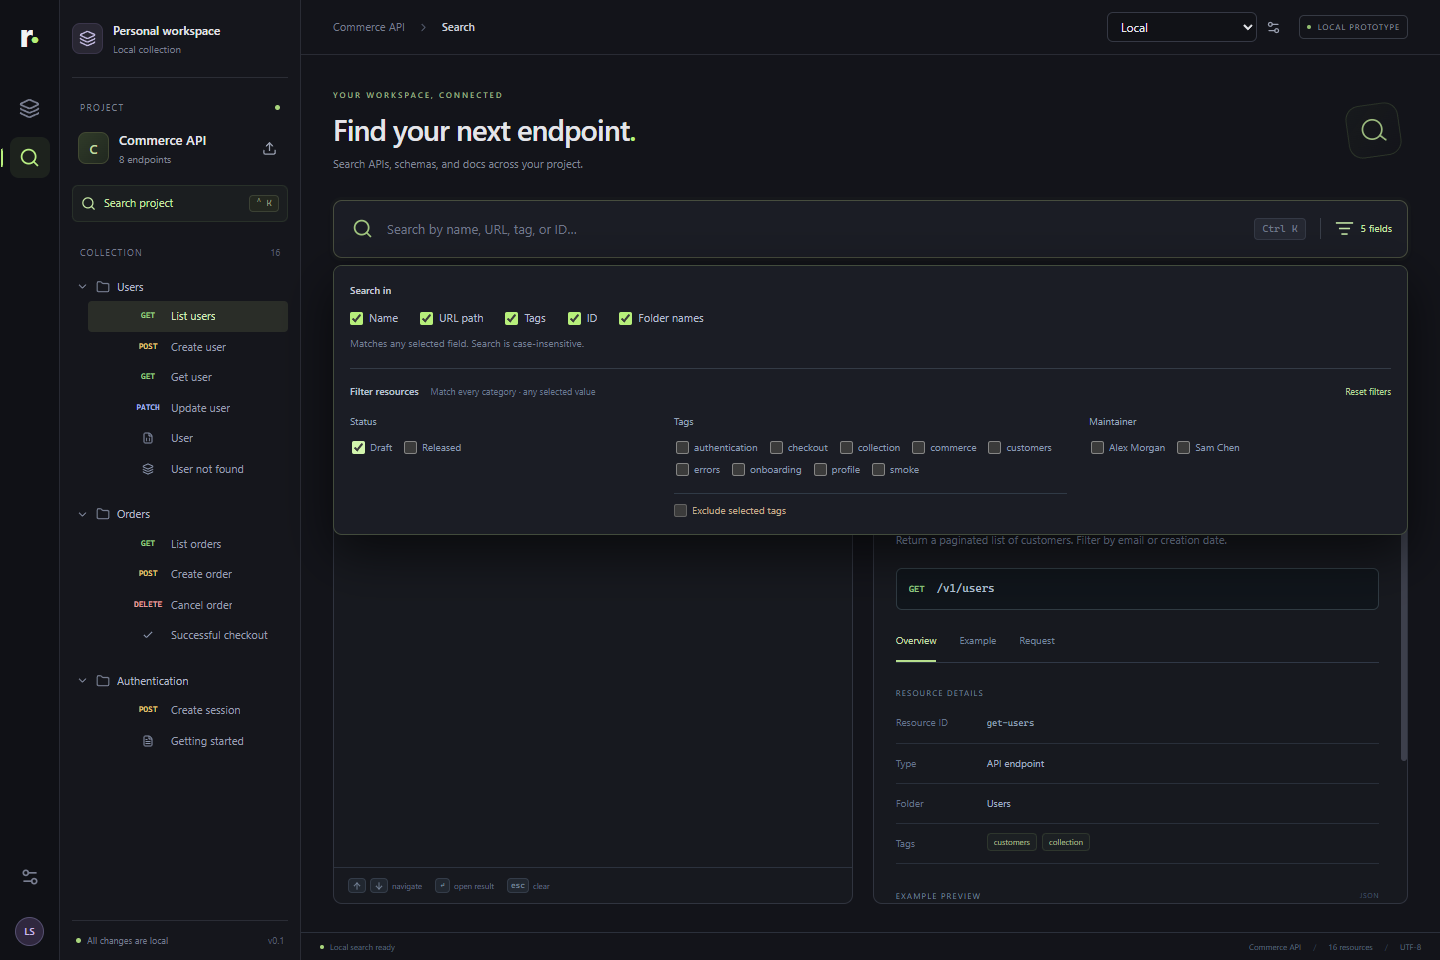
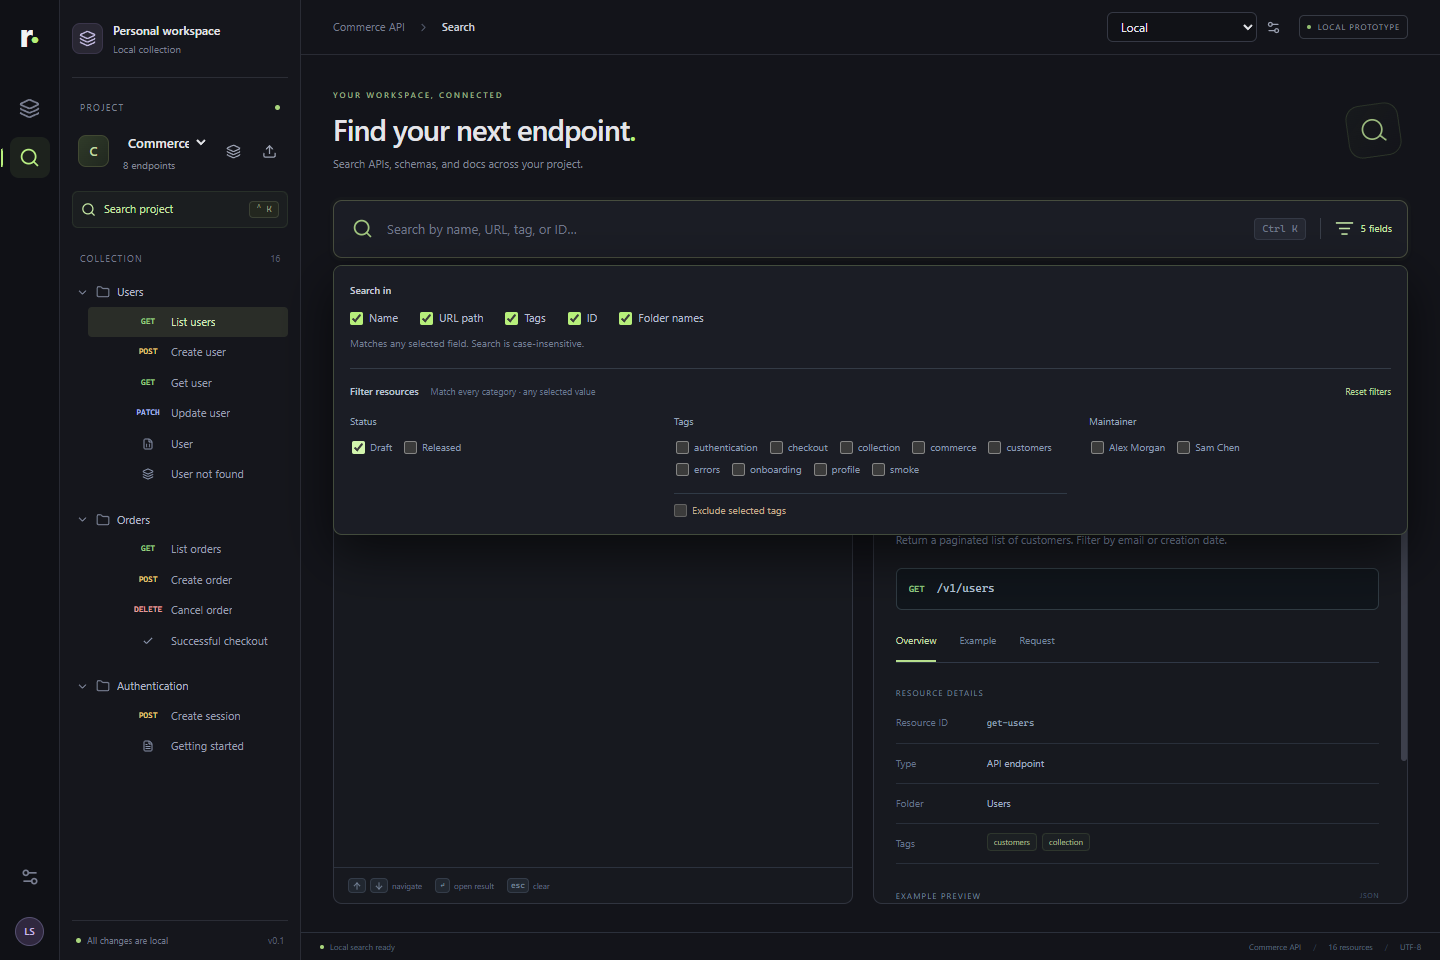
test: add projects smoke scenario with real v1 migration; document stages

diff --git a/docs/projects/README.md b/docs/projects/README.md
@@ -1,0 +1,50 @@
+# Multiple projects (unlimited)
+
+Reqora exists partly because Apidog limits imports to 5 projects. Reqora has **no limit** on the number of projects, and the code contains no project cap anywhere.
+
+## Specs
+
+**Model.** `Workspace { version: 2, revision, activeProjectId, projects: Project[] }`.
+- Each project owns its folders, endpoints, resources, import sources, environments, active environment and global variables. Scripts and auth (features 3 and 4) will also live on `Project`.
+- Search history is kept per project, under the browser-storage key `reqora.search.history.v1:<projectId>`. Search field and type preferences stay global.
+
+**Isolation.**
+- IDs are unique *within* a project, and every lookup is scoped to one project.
+- Sending carries `projectId`.
+- Secrets are keyed by variable ID. Variable IDs are random and are regenerated when a project is duplicated, so two projects never share a secret entry.
+- Cross-project views (search across all projects) use composite keys `<projectId>::<id>`.
+
+**Operations** (pure, `src/workspace/projects.ts`)
+- **Create:** a blank project with a unique name.
+- **Rename:** a blank name is ignored.
+- **Duplicate:** deep copy with a new project ID and new variable IDs. Secret values are copied through `copySecretFrom`, encrypted in main, and the name becomes "X copy". Source IDs are kept, so re-importing the same document into the copy is recognized as a re-import.
+- **Delete:** removes the project. Its secrets are deleted by the store's orphan sweep and its search history key is removed. Deleting the last project leaves a new blank "My project", because a workspace always has at least one project.
+- **Switch:** sets `activeProjectId`.
+
+**UI.**
+- A project switcher sits in the sidebar header, plus a **Projects** dialog with: list, New, Rename (inline), Duplicate, Delete (with confirmation), and Open.
+- The tree, request tab, environments and import preview always act on the active project.
+
+**Import target.** The import preview asks **Import into: New project "<document title>" / Current project "<name>"**.
+- The default is *New project*, unless this document was already imported into the current project. Then the default is the current project, with merge/overwrite.
+- The preview names other projects that already contain the same document.
+- A new project gets environments from the document's servers.
+
+**Search scope.**
+- **This project** (the default) searches only the active project.
+- **All projects** searches every project, and breadcrumbs start with the project name.
+- Opening a result from another project switches to that project and selects the item.
+- The scope is remembered.
+
+**Migration** (no data loss).
+- A version-1 file (single- or multi-project) is migrated in memory to version 2. Missing fields are filled in, and nothing is removed.
+- Before the first save in the new format, the original file is copied once to `workspace.v1.backup.json`.
+- The global search history from earlier versions moves to the project that is active at first launch, and the old key is then removed.
+
+## Plan
+
+1. Add the domain: `projects.ts` (operations, isolation-safe duplicate), `migrateWorkspace` (v1→v2), and `RunInput.projectId`.
+2. Update main: the store migrates and makes the backup; IPC validation covers `projectId`.
+3. Build the UI: switcher, Projects dialog, import target choice, search scope and per-project history.
+4. Test: unit tests for operations, migration and isolation (including secrets on duplicate and delete); UI tests for the switcher, the dialog, import-to-new-project and cross-project search; an Electron smoke test with a real v1 file migration and many projects.
+5. Review, then ship with commits and push.

diff --git a/docs/request-sending/README.md b/docs/request-sending/README.md
@@ -58,7 +58,7 @@ The Request tab shows which rule applied and the resulting base URL.
   Each message names the host.
 - The response shows status, time, size, headers and body (formatted when it is JSON).
 
-**Tests.** Local mock servers only: the loopback HTTP server, the loopback TLS server with a self-signed certificate, and an unresolvable `.invalid` host for DNS errors. Nothing third-party.
+**Tests.** Local mock servers only: a loopback HTTP mock, a closed port and a hanging server. DNS and TLS failures use injected Node error codes. Nothing third-party is contacted.
 
 ## Validation
 
